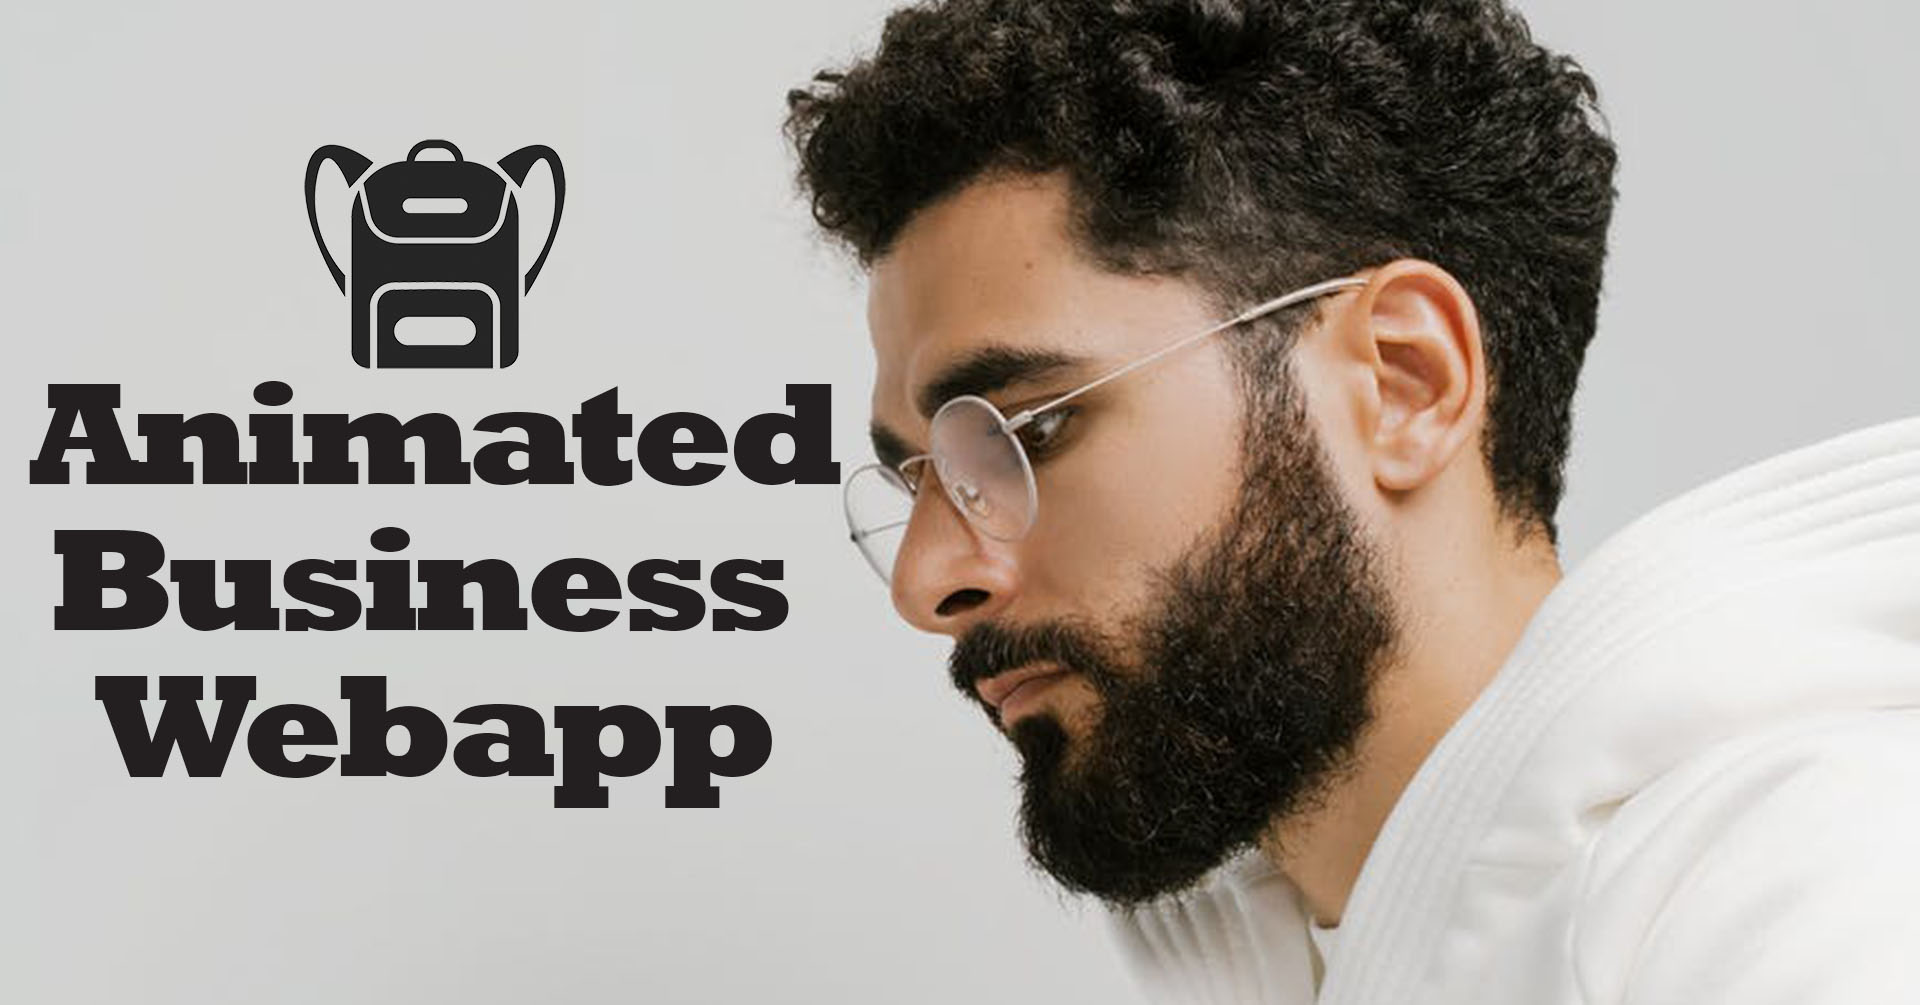
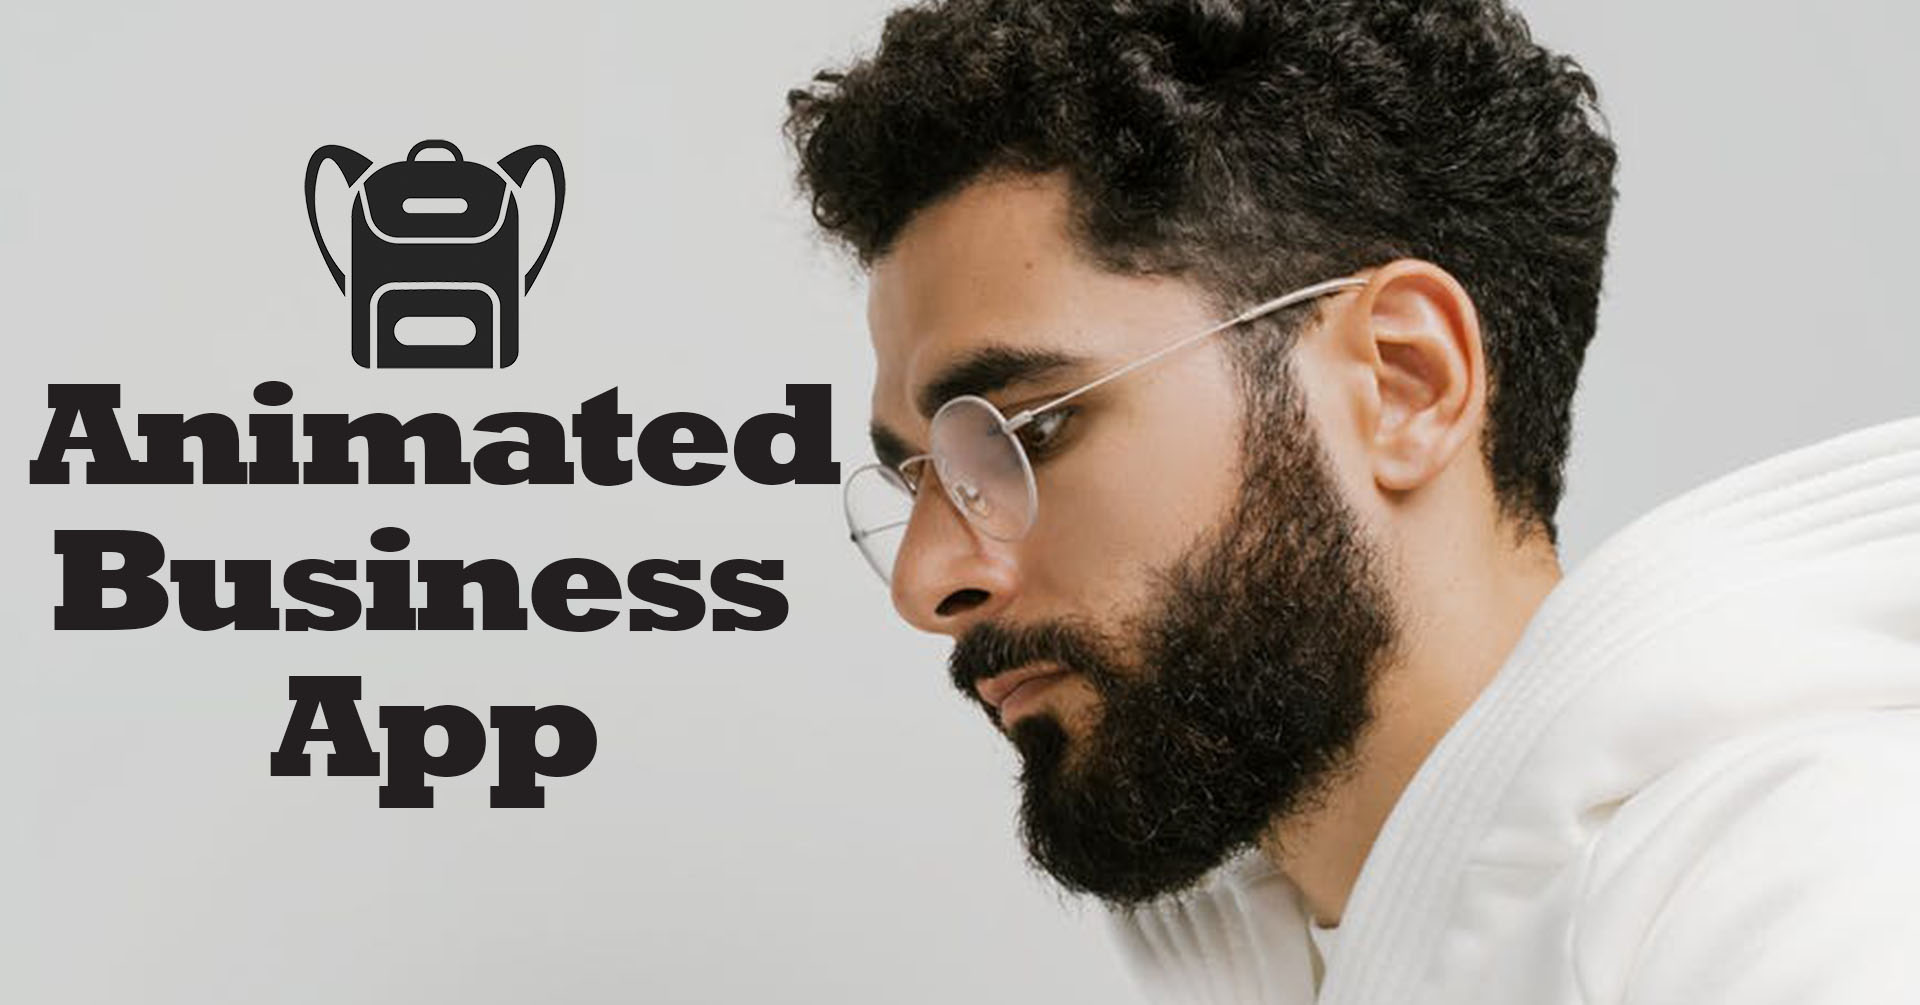
index text changes og:image

Changed region(s): [[0.0312, 0.6478, 0.4062, 0.802]]

diff --git a/public/index.html b/public/index.html
@@ -17,15 +17,15 @@
     />
     <meta
       property="og:image"
-      content="https://user-images.githubusercontent.com/43997053/148946938-a19f1fb7-7e7d-4c88-b970-140a58dab495.jpg"
+      content="https://user-images.githubusercontent.com/43997053/148949557-0fd77372-020e-4943-8349-010ef0d5790f.jpg"
     />
-    <meta property="og:title" content="Animated Business Webpp" />
+    <meta property="og:title" content="Animated Business App" />
     <meta
       property="og:description"
       content="The showcase of my portfolio and services as photographer and guide."
     />
 
-    <title>Animated Business Webpp</title>
+    <title>Animated Business App</title>
   </head>
   <body>
     <noscript>You need to enable JavaScript to run this app.</noscript>
